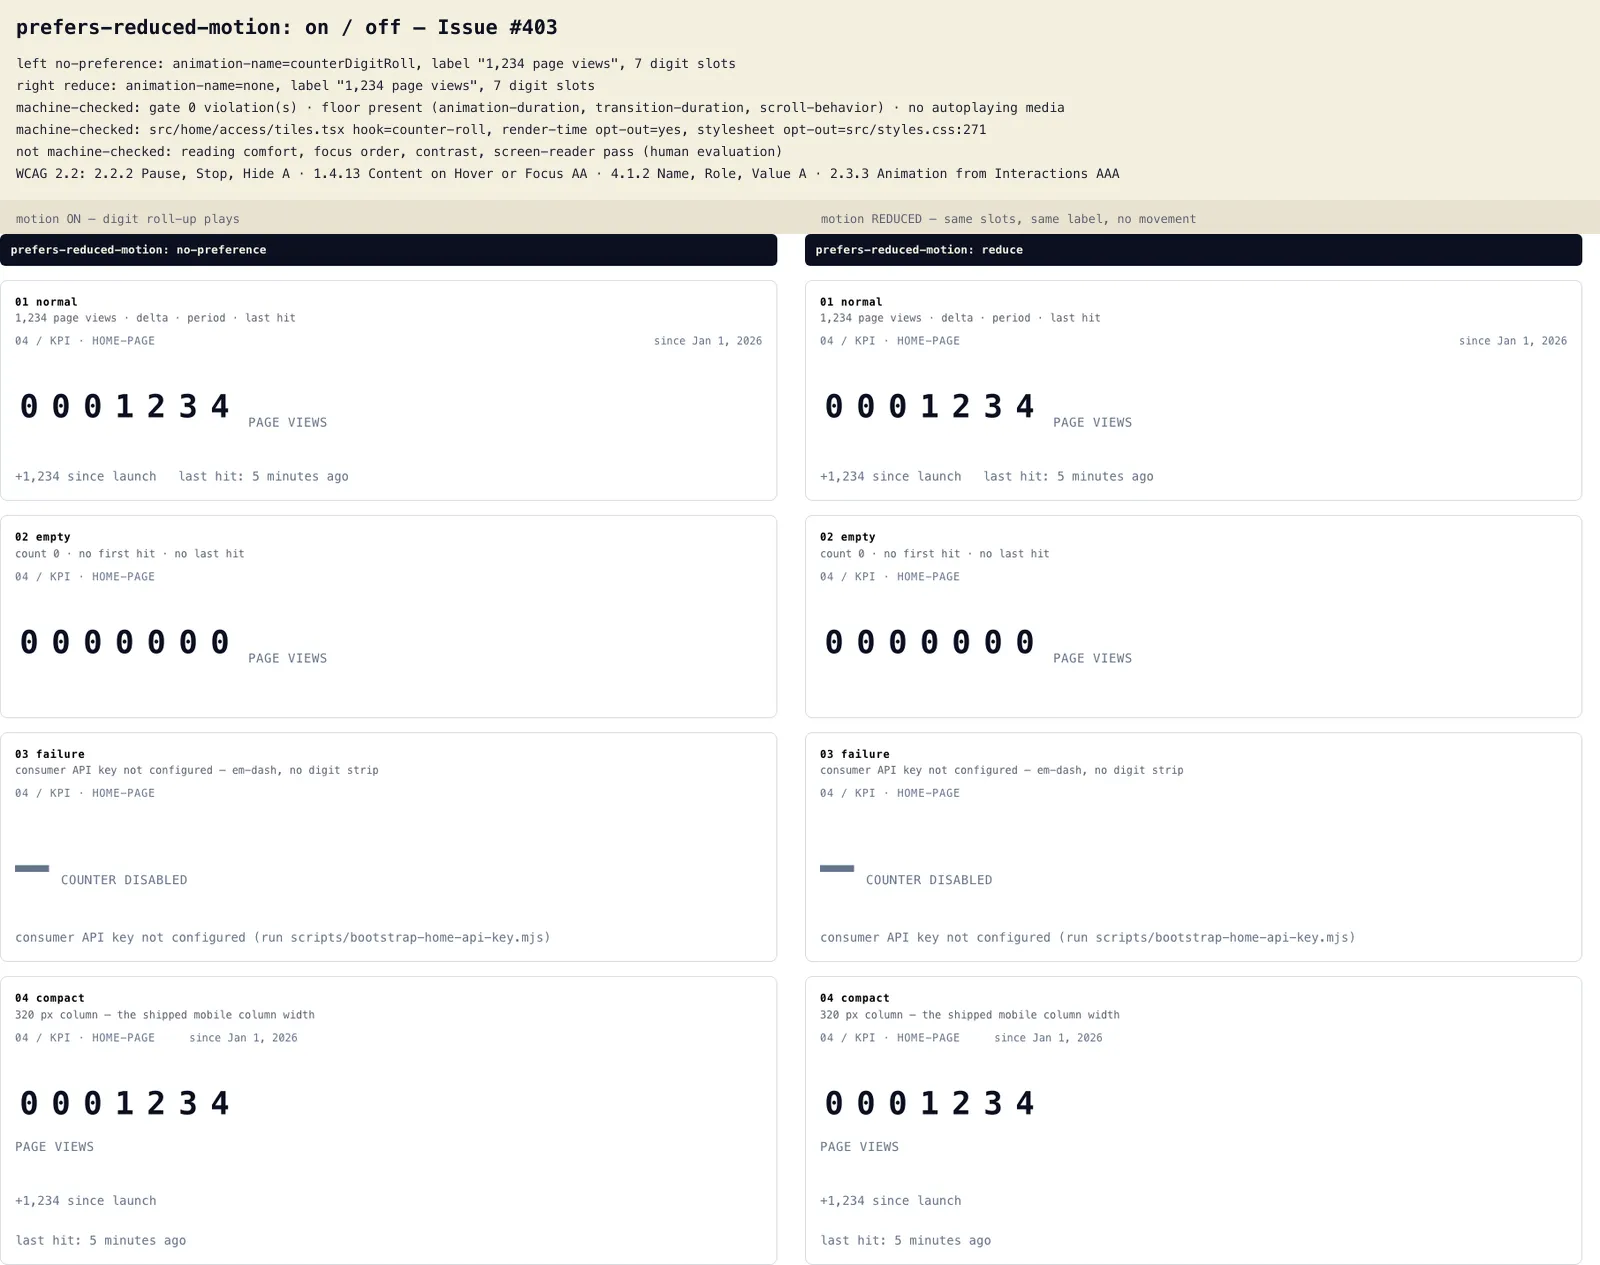
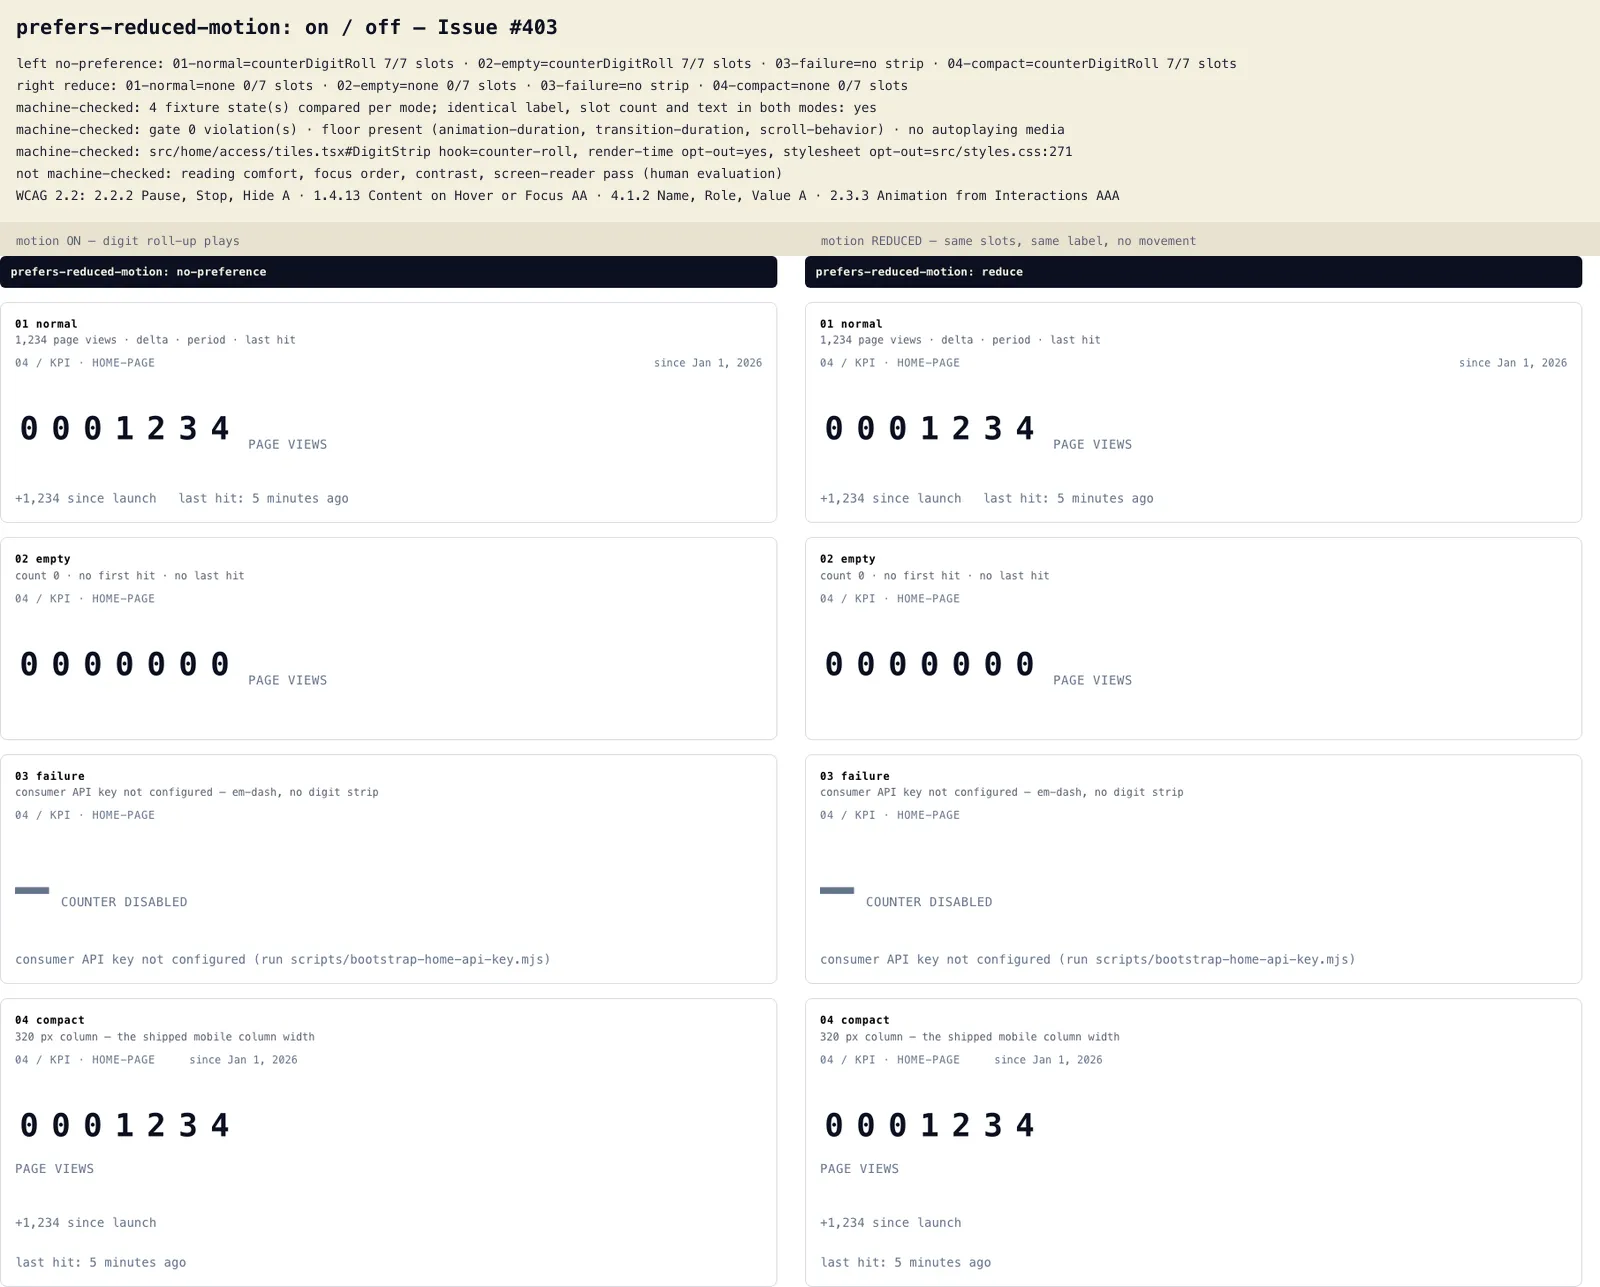
fix(a11y): restore the real page function and re-capture the artefact (#403)
A merge revert had put the per-state reader back as a STRING template,
so Playwright evaluated the expression instead of calling it and the
capture died on `observation.mode` with nothing written. Both the
script and its test are restored to the function form, which is what
makes `pnpm run capture:a11y-reduced-motion` the reproducible evidence
the Issue asks for.

- re-captured docs/verification/a11y/reduced-motion-on-off.webp from
  the fixed script (1600x1287, 85 kB, 4 states x 2 contexts,
  verdict.ok) - byte-identical to the capture the revert had dropped
- say what the browser can and cannot prove: the reduce panel measures
  the rendered result (nothing moves), while the render-time opt-out is
  proven by tiles.test.tsx, because styles.css:271 would mask a
  missing branch
- merge the duplicated "movement contract" comment in tiles.tsx
- mark the fixture's per-digit stagger as intended-but-not-shipped
- run a11y:reduced-motion:check in validate:fast at its
  quality/profile.yaml position instead of appended last

diff --git a/src/home/access/reduced-motion.stories.tsx b/src/home/access/reduced-motion.stories.tsx
@@ -71,7 +71,17 @@ const CASE_IDS = {
 /** Digit slots `CounterTile` renders (`DIGIT_SLOTS` in `tiles.tsx`). */
 const DIGIT_SLOTS = 7;
 
-/** Per-digit stagger of the roll-up, mirroring `tiles.tsx`. */
+/**
+ * Per-digit stagger of the roll-up, mirroring `tiles.tsx`.
+ *
+ * INTENDED motion, not shipped motion: Panda evaluates
+ * `animationDelay: calc(var(--counter-stagger, 0ms) + ${index * 80}ms)`
+ * statically per `css()` call, so the generated stylesheet today carries
+ * only the `index === 0` rule and every digit shares one delay. The
+ * fixture re-arms the intended stagger so the motion design is visible
+ * in the forced preview, and this comment is what keeps the preview from
+ * being read as evidence of the shipped frame.
+ */
 const STAGGER_MS = 80;
 
 /**
@@ -91,6 +101,10 @@ const STAGGER_MS = 80;
  * `tiles.tsx`; they cannot be imported from there because Panda reads
  * that object literal at build time (see the comment in that file, and
  * "Two implementation traps" in `docs/verification/a11y/README.md`).
+ * The per-digit `animation-delay` half is the one exception — it is the
+ * intended stagger the shipped stylesheet does not yet emit (see
+ * `STAGGER_MS`), so the preview is a design view, not a capture of
+ * production motion.
  */
 const MOTION_EMULATION_CSS = [
 	'[data-motion-emulation="no-preference"] :where([data-motion="counter-roll"]) img {',

diff --git a/src/home/access/tiles.tsx b/src/home/access/tiles.tsx
@@ -374,16 +374,12 @@ function DigitStrip({
 						height: { base: '48px', lg: '56px' },
 						width: 'auto',
 						verticalAlign: 'baseline',
-						// The whole "movement" contract, and the only place
-						// this component can animate. With motion reduced the
-						// spread contributes nothing, so the resting frame IS
-						// the reduced-motion frame and no `animation-name` is
-						// emitted at all.
-						// The whole "movement" contract, in one place. With motion
-						// reduced the spread contributes NOTHING, so the document
-						// carries no `animation-name` at all rather than an
-						// animation the stylesheet has to neutralise — the resting
-						// frame IS the reduced-motion frame.
+						// The whole "movement" contract, and the only place this
+						// component can animate. With motion reduced the spread
+						// contributes NOTHING, so the document carries no
+						// `animation-name` at all rather than an animation the
+						// stylesheet has to neutralise — the resting frame IS the
+						// reduced-motion frame.
 						//
 						// The declarations stay LITERAL here on purpose. Panda
 						// extracts the utility classes by reading this object at
